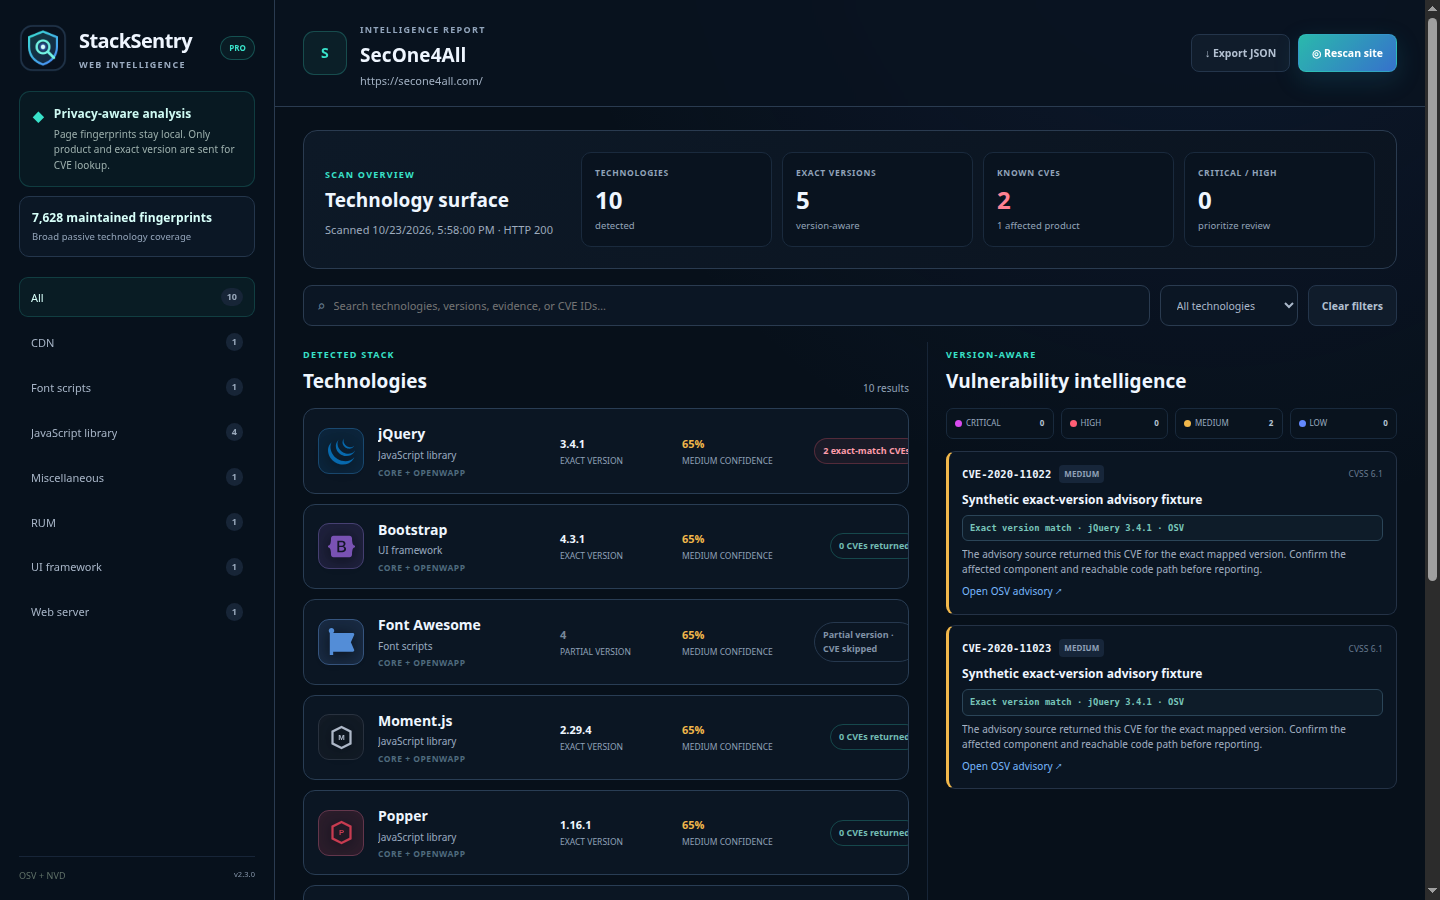
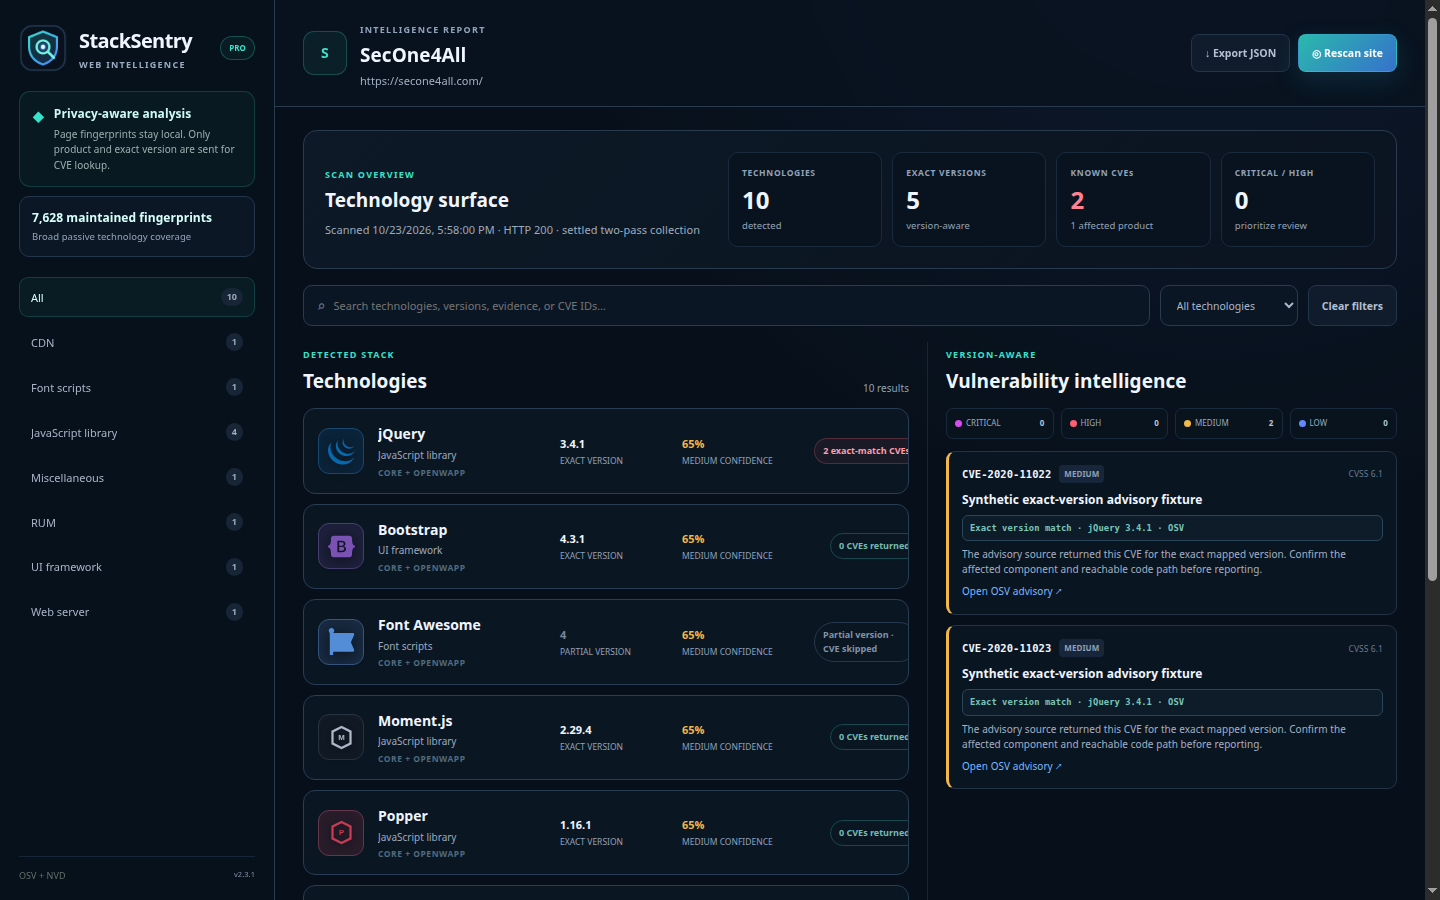
Stabilize dynamic technology collection

diff --git a/background/service-worker.js b/background/service-worker.js
@@ -10,6 +10,8 @@ const SETTINGS_KEY = "settings";
 const CACHE_KEY = "cveCache";
 const CACHE_TTL_MS = 24 * 60 * 60 * 1000;
 const MAX_CVE_LOOKUPS = 12;
+const AUTO_SETTLE_MS = 2_200;
+const MANUAL_SETTLE_MS = 900;
 
 async function settings() {
   const stored = await chrome.storage.local.get(SETTINGS_KEY);
@@ -211,6 +213,62 @@ async function collectGlobalEvidence(tabId) {
   };
 }
 
+function uniqueBy(items, key) {
+  return [...new Map(items.filter(Boolean).map((item) => [key(item), item])).values()];
+}
+
+function mergeNestedEvidence(first, second) {
+  if (Array.isArray(first) || Array.isArray(second)) return [...new Set([...(first || []), ...(second || [])])];
+  if (first && second && typeof first === "object" && typeof second === "object") {
+    const output = {};
+    for (const name of new Set([...Object.keys(first), ...Object.keys(second)])) output[name] = mergeNestedEvidence(first[name], second[name]);
+    return output;
+  }
+  return second ?? first;
+}
+
+function mergeTextSamples(first = "", second = "", limit) {
+  if (!first || first === second) return String(second || first).slice(0, limit);
+  const half = Math.floor((limit - 1) / 2);
+  return `${String(first).slice(0, half)}\n${String(second).slice(0, limit - half - 1)}`;
+}
+
+function mergeEvidencePasses(first, second) {
+  if (!second) return first;
+  return {
+    ...first,
+    ...second,
+    html: mergeTextSamples(first.html, second.html, 1_500_000),
+    text: mergeTextSamples(first.text, second.text, 200_000),
+    inlineScripts: mergeTextSamples(first.inlineScripts, second.inlineScripts, 300_000),
+    styles: mergeTextSamples(first.styles, second.styles, 200_000),
+    scripts: uniqueBy([...(first.scripts || []), ...(second.scripts || [])], (item) => `${item.src || ""}\0${item.type || ""}`),
+    links: uniqueBy([...(first.links || []), ...(second.links || [])], (item) => `${item.href || ""}\0${item.rel || ""}`),
+    resources: uniqueBy([...(first.resources || []), ...(second.resources || [])], (item) => `${item.name || ""}\0${item.initiatorType || ""}`),
+    meta: uniqueBy([...(first.meta || []), ...(second.meta || [])], (item) => `${item.name || ""}\0${item.property || ""}\0${item.httpEquiv || ""}\0${item.content || ""}`),
+    cookies: mergeNestedEvidence(first.cookies, second.cookies),
+    domExists: [...new Set([...(first.domExists || []), ...(second.domExists || [])])],
+    domText: mergeNestedEvidence(first.domText, second.domText),
+    domAttribute: mergeNestedEvidence(first.domAttribute, second.domAttribute),
+    domProperty: mergeNestedEvidence(first.domProperty, second.domProperty),
+    htmlTruncated: Boolean(first.htmlTruncated || second.htmlTruncated)
+  };
+}
+
+function mergeGlobalPasses(first = {}, second = {}) {
+  return { ...first, ...second, js: { ...(first.js || {}), ...(second.js || {}) } };
+}
+
+const wait = (milliseconds) => new Promise((resolve) => setTimeout(resolve, milliseconds));
+
+async function collectEvidencePass(tabId) {
+  const [dom, globals] = await Promise.all([
+    collectDomEvidence(tabId),
+    collectGlobalEvidence(tabId).catch(() => ({}))
+  ]);
+  return { dom, globals };
+}
+
 async function cachedLookup(technology) {
   const key = vulnerabilityCacheKey(technology);
   if (!key) return lookupTechnologyVulnerabilities(technology);
@@ -273,11 +331,26 @@ async function scanTab(tabId, options = {}) {
     throw new Error("This site is excluded from automatic scanning");
   }
   await setBadge(tabId, null, "scanning");
-  const [dom, globals, headerState] = await Promise.all([
-    collectDomEvidence(tabId),
-    collectGlobalEvidence(tabId).catch(() => ({})),
+  const settleMs = Math.max(0, Math.min(5_000, Number(options.settleMs) || 0));
+  const [initialPass, headerState] = await Promise.all([
+    collectEvidencePass(tabId),
     chrome.storage.session.get(`${HEADER_PREFIX}${tabId}`)
   ]);
+  let dom = initialPass.dom;
+  let globals = initialPass.globals;
+  let collectionPasses = 1;
+  if (settleMs) {
+    await wait(settleMs);
+    const latestTab = await chrome.tabs.get(tabId);
+    const latestSettings = await settings();
+    if (latestTab.url !== tab.url) throw new Error("Page changed while StackSentry was collecting evidence");
+    if (!latestSettings.enabled) throw new Error("StackSentry was turned off during analysis");
+    if (!options.force && isExcluded(tab.url, latestSettings.excludedHosts)) throw new Error("This site was excluded during analysis");
+    const settledPass = await collectEvidencePass(tabId);
+    dom = mergeEvidencePasses(initialPass.dom, settledPass.dom);
+    globals = mergeGlobalPasses(initialPass.globals, settledPass.globals);
+    collectionPasses = 2;
+  }
   const captured = headerState[`${HEADER_PREFIX}${tabId}`];
   const headers = captured?.url === tab.url ? captured.headers : {};
   const evidence = { ...dom, globals, js: globals.js || {}, headers };
@@ -287,6 +360,7 @@ async function scanTab(tabId, options = {}) {
     ? detected.map((item) => ({ ...item, vulnerabilityStatus: !item.version ? "version-unknown" : !item.versionExact ? "version-inexact" : (item.package || item.cpe) ? "pending" : "unsupported", vulnerabilities: [] }))
     : await addVulnerabilities(detected, shouldCheckCves);
   const result = {
+    scanId: `${Date.now()}-${Math.random().toString(36).slice(2)}`,
     tabId,
     url: dom.url,
     title: dom.title || tab.title || hostname(tab.url),
@@ -295,6 +369,8 @@ async function scanTab(tabId, options = {}) {
     htmlTruncated: Boolean(dom.htmlTruncated),
     statusCode: captured?.statusCode || null,
     catalogSize: OPENWAPP_CATALOG_SIZE,
+    collectionPasses,
+    settleDelayMs: settleMs,
     technologies,
     cveLookupPending: Boolean(options.deferCves && shouldCheckCves),
     summary: {
@@ -307,8 +383,8 @@ async function scanTab(tabId, options = {}) {
   if (result.cveLookupPending) {
     void (async () => {
       const enriched = await addVulnerabilities(detected, true);
-      const [latestTab, latestSettings] = await Promise.all([chrome.tabs.get(tabId).catch(() => null), settings()]);
-      if (!latestTab || latestTab.url !== result.url || !latestSettings.enabled || isExcluded(result.url, latestSettings.excludedHosts)) return;
+      const [latestTab, latestSettings, latestResult] = await Promise.all([chrome.tabs.get(tabId).catch(() => null), settings(), getResult(tabId)]);
+      if (!latestTab || latestTab.url !== result.url || !latestSettings.enabled || isExcluded(result.url, latestSettings.excludedHosts) || latestResult?.scanId !== result.scanId) return;
       result.technologies = enriched;
       result.cveLookupPending = false;
       result.summary.technologies = summarizeTechnologies(enriched);
@@ -345,7 +421,7 @@ chrome.runtime.onMessage.addListener((message, sender, sendResponse) => {
       } else if (message.type === "scan") {
         const target = Number.isInteger(tabId) ? tabId : (await activeTab())?.id;
         const checkCves = message.checkCves !== false;
-        data = await scanTab(target, { force: true, checkCves, deferCves: checkCves });
+        data = await scanTab(target, { force: true, checkCves, deferCves: checkCves, settleMs: MANUAL_SETTLE_MS });
       } else if (message.type === "getResult") {
         data = await getResult(tabId);
       } else if (message.type === "openReport") {
@@ -363,7 +439,7 @@ chrome.runtime.onMessage.addListener((message, sender, sendResponse) => {
         if (excluded.has(host)) excluded.delete(host); else excluded.add(host);
         data = await saveSettings({ ...current, excludedHosts: [...excluded] });
         const target = Number.isInteger(tabId) ? tabId : (await activeTab())?.id;
-        if (excluded.has(host)) await setBadge(target, null, "excluded"); else void scanTab(target, { force: true });
+        if (excluded.has(host)) await setBadge(target, null, "excluded"); else void scanTab(target, { force: true, settleMs: MANUAL_SETTLE_MS });
       } else {
         throw new Error("Unknown StackSentry request");
       }
@@ -381,7 +457,7 @@ chrome.tabs.onUpdated.addListener((tabId, changeInfo, tab) => {
     if (!current.enabled) return setBadge(tabId);
     if (!current.autoScan) return setBadge(tabId);
     if (isExcluded(tab.url, current.excludedHosts)) return setBadge(tabId, null, "excluded");
-    return scanTab(tabId, { deferCves: true }).catch(() => setBadge(tabId));
+    return scanTab(tabId, { deferCves: true, settleMs: AUTO_SETTLE_MS }).catch(() => setBadge(tabId));
   });
 });
 
@@ -393,7 +469,7 @@ chrome.commands.onCommand.addListener((command) => {
   if (command !== "scan-current-site") return;
   void activeTab().then(async (tab) => {
     if (!tab) return;
-    await scanTab(tab.id, { force: true });
+    await scanTab(tab.id, { force: true, settleMs: MANUAL_SETTLE_MS });
     await openReport(tab.id);
   }).catch(() => {});
 });

diff --git a/report/report.js b/report/report.js
@@ -186,7 +186,7 @@ function render() {
   elements.siteUrl.textContent = result.url;
   elements.siteIcon.textContent = result.host?.[0]?.toUpperCase() || "S";
   elements.catalogCoverage.textContent = `${(result.catalogSize || 0).toLocaleString()} maintained fingerprints`;
-  elements.scanMeta.textContent = `Scanned ${new Date(result.scannedAt).toLocaleString()} · HTTP ${result.statusCode || "unknown"}${result.htmlTruncated ? " · large DOM sample truncated safely" : ""}`;
+  elements.scanMeta.textContent = `Scanned ${new Date(result.scannedAt).toLocaleString()} · HTTP ${result.statusCode || "unknown"}${result.collectionPasses > 1 ? " · settled two-pass collection" : ""}${result.htmlTruncated ? " · large DOM sample truncated safely" : ""}`;
   elements.technologyTotal.textContent = tech.total;
   elements.versionTotal.textContent = tech.versioned;
   elements.vulnerabilityTotal.textContent = vuln.total;

diff --git a/report/index.html b/report/index.html
@@ -13,7 +13,7 @@
       <section class="privacy"><b>◆</b><div><strong>Privacy-aware analysis</strong><small>Page fingerprints stay local. Only product and exact version are sent for CVE lookup.</small></div></section>
       <section class="catalog-stat"><strong id="catalogCoverage">Loading catalog…</strong><span>Broad passive technology coverage</span></section>
       <nav id="categoryNav"></nav>
-      <div class="sidebar-foot"><span>OSV + NVD</span><small>v2.3.0</small></div>
+      <div class="sidebar-foot"><span>OSV + NVD</span><small>v2.3.1</small></div>
     </aside>
 
     <main>

diff --git a/popup/popup.html b/popup/popup.html
@@ -41,7 +41,7 @@
       <button id="excludeSite" type="button"><span>⊘</span><div><strong>Exclude this site</strong><small>Pause automatic analysis for this hostname</small></div></button>
     </section>
 
-    <footer><span>◆ <b id="catalogCoverage">Maintained catalog ready</b></span><small>v2.3.0</small></footer>
+    <footer><span>◆ <b id="catalogCoverage">Maintained catalog ready</b></span><small>v2.3.1</small></footer>
   </main>
   <div id="toast" role="status"></div>
   <script type="module" src="popup.js"></script>

diff --git a/README.md b/README.md
@@ -6,7 +6,7 @@
 
   **Automatic web-stack fingerprinting with evidence, exact versions, and version-aware CVE intelligence.**
 
-  [![Version](https://img.shields.io/badge/version-2.3.0-39cdb9?style=flat-square)](manifest.json)
+  [![Version](https://img.shields.io/badge/version-2.3.1-39cdb9?style=flat-square)](manifest.json)
   [![Fingerprints](https://img.shields.io/badge/fingerprints-7%2C628-6389ff?style=flat-square)](#technology-coverage)
   [![Chrome MV3](https://img.shields.io/badge/Chrome-Manifest%20V3-4285F4?style=flat-square&logo=googlechrome&logoColor=white)](manifest.json)
   [![Data](https://img.shields.io/badge/CVE%20data-OSV%20%2B%20NVD-5d84ff?style=flat-square)](#version-aware-vulnerability-intelligence)
@@ -47,6 +47,8 @@ are never guessed and are never labeled vulnerable.
 ## Features
 
 - **Automatic scanning:** analyzes every normal website after navigation.
+- **Settled two-pass collection:** merges immediate and delayed evidence so
+  dynamically loaded technologies appear without toggling or reopening the tool.
 - **Master On/Off:** stops both automatic and manual analysis and clears badges.
 - **Site exclusions:** pauses Auto Scan for selected hostnames and subdomains.
 - **Broad maintained catalog:** 7,628 technology fingerprints across 109
@@ -108,7 +110,7 @@ of performing a broad product-name lookup.
 
 ## Installation
 
-1. Download and extract [`stacksentry-2.3.0.zip`](dist/stacksentry-2.3.0.zip).
+1. Download and extract [`stacksentry-2.3.1.zip`](dist/stacksentry-2.3.1.zip).
 2. Open `chrome://extensions`.
 3. Enable **Developer mode**.
 4. Select **Load unpacked**.
@@ -197,12 +199,12 @@ fingerprint source and all dependency notices are included in the release.
 - [Detailed documentation](DOCUMENTATION.md)
 - [Plain-text guide](DOCUMENTATION.txt)
 - [Changelog](CHANGELOG.md)
-- [Release ZIP](dist/stacksentry-2.3.0.zip)
+- [Release ZIP](dist/stacksentry-2.3.1.zip)
 - [Third-party notices](THIRD_PARTY_NOTICES.md)
 
 ---
 
 <div align="center">
-  <strong>StackSentry v2.3.0</strong><br>
+  <strong>StackSentry v2.3.1</strong><br>
   Evidence first. Exact versions. Honest vulnerability intelligence.
 </div>

diff --git a/DOCUMENTATION.md b/DOCUMENTATION.md
@@ -11,16 +11,20 @@ versions against OSV.dev or the NIST NVD.
 1. Chrome reports that an HTTP or HTTPS tab finished loading.
 2. StackSentry checks the master switch, Auto Scan setting, and hostname
    exclusion list.
-3. The extension collects a bounded local fingerprint from metadata, HTML,
+3. The extension collects an immediate bounded local fingerprint from metadata, HTML,
    visible text, inline scripts and styles, asset URLs, dynamic resource URLs,
    catalog-requested DOM signals, descriptor-safe JavaScript properties,
    page-readable cookie signals, and response headers.
-4. StackSentry Core and the bundled 7,628-definition maintained catalog run
+4. A second bounded pass runs after a short settle window. Early and late DOM,
+   scripts, styles, resources, cookies, metadata, and JavaScript evidence are
+   deduplicated and merged.
+5. StackSentry Core and the bundled 7,628-definition maintained catalog run
    locally. Overlapping results are merged with evidence, confidence, and any
    explicit version.
-5. Exact supported versions are checked against the appropriate vulnerability
+6. Exact supported versions are checked against the appropriate vulnerability
    service. Results are cached locally for 24 hours.
-6. The per-tab badge and report are updated.
+7. The per-tab badge and report are updated. Stale asynchronous CVE results are
+   discarded when a newer scan has replaced them.
 
 ## Controls
 
@@ -91,7 +95,7 @@ validate high-impact findings manually.
 
 ## Install
 
-1. Extract `dist/stacksentry-2.3.0.zip`.
+1. Extract `dist/stacksentry-2.3.1.zip`.
 2. Open `chrome://extensions`.
 3. Enable Developer mode.
 4. Select **Load unpacked** and choose the extracted directory.

diff --git a/CHANGELOG.md b/CHANGELOG.md
@@ -1,5 +1,17 @@
 # Changelog
 
+## 2.3.1
+
+- Replaced the single immediate page snapshot with settled two-pass collection
+  for automatic and manual scans, catching technologies loaded shortly after
+  `document.readyState` reaches complete.
+- Merged early and settled script, stylesheet, resource, metadata, cookie, DOM,
+  and JavaScript evidence so late detection does not discard transient signals.
+- Added per-scan identities that prevent an older asynchronous CVE response from
+  overwriting the technology inventory of a newer scan.
+- Added a regression fixture proving one early technology and one late dynamic
+  technology are both retained in the completed result.
+
 ## 2.3.0
 
 - Wired all 502 cookie-name requirements from the maintained catalog into the
